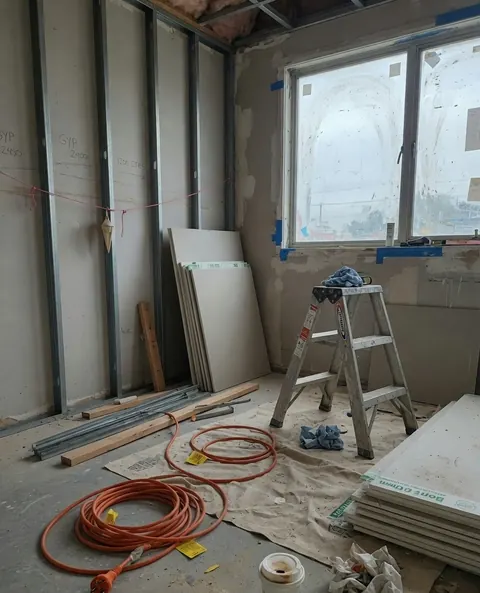
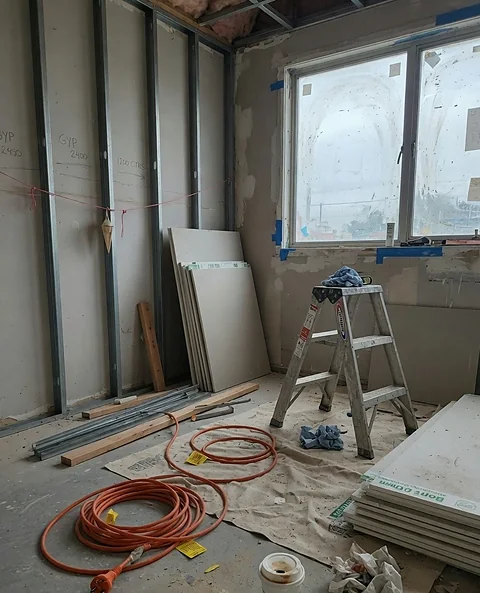
Stop the build inventing pixels, and sharpen what we actually have
The trade photos are 838px wide at source. The build was emitting 864 and 1200
variants from them, so a phone downloaded a third more bytes for detail the
resampler had guessed. That is the softness: no encoder setting fixes an
upscale.

- Ladder now caps at the source width and drops the fake variants.
- WebP quality 78 to 84, plus a light unsharp mask after each downscale, which
  is where the real perceived sharpness was being lost.
- srcset is read off disk instead of asserting a 480/864/1200 ladder that may
  not exist, so a photo can never again advertise a width we do not hold.

Guarded by test_no_photo_variant_is_wider_than_its_source and
test_every_srcset_width_matches_a_file_that_exists.

Changed region(s): [[0.75, 0.4553, 0.7812, 0.4857], [0.6875, 0.4553, 0.7188, 0.4857]]

diff --git a/index.html b/index.html
@@ -62,16 +62,16 @@
     <section class="hero-bleed">
       <div class="hero-media" id="stage">
           <picture>
-            <source type="image/webp" srcset="/assets/tech-hvac-480.webp?v=real1 480w, /assets/tech-hvac-864.webp?v=real1 864w, /assets/tech-hvac-1200.webp?v=real1 1200w" sizes="100vw">
-            <img class="is-on" data-trade="hvac" fetchpriority="high" src="/assets/tech-hvac.jpg?v=real1" width="838" height="1059" alt="HVAC technician on a rooftop unit">
+            <source type="image/webp" srcset="/assets/tech-hvac-480.webp?v=real2 480w, /assets/tech-hvac-838.webp?v=real2 838w" sizes="100vw">
+            <img class="is-on" data-trade="hvac" fetchpriority="high" src="/assets/tech-hvac.jpg?v=real2" width="838" height="1059" alt="HVAC technician on a rooftop unit">
           </picture>
           <picture>
-            <source type="image/webp" srcset="/assets/electrical-480.webp?v=real1 480w, /assets/electrical-864.webp?v=real1 864w, /assets/electrical-1200.webp?v=real1 1200w" sizes="100vw">
-            <img data-trade="electrical" aria-hidden="true" inert src="/assets/electrical.jpg?v=real1" width="838" height="1059" alt="Electrical switchboard" loading="lazy">
+            <source type="image/webp" srcset="/assets/electrical-480.webp?v=real2 480w, /assets/electrical-838.webp?v=real2 838w" sizes="100vw">
+            <img data-trade="electrical" aria-hidden="true" inert src="/assets/electrical.jpg?v=real2" width="838" height="1059" alt="Electrical switchboard" loading="lazy">
           </picture>
           <picture>
-            <source type="image/webp" srcset="/assets/construction-480.webp?v=real1 480w, /assets/construction-864.webp?v=real1 864w, /assets/construction-1200.webp?v=real1 1200w" sizes="100vw">
-            <img data-trade="construction" aria-hidden="true" inert src="/assets/construction.jpg?v=real1" width="838" height="1036" alt="Construction services fit-out" loading="lazy">
+            <source type="image/webp" srcset="/assets/construction-480.webp?v=real2 480w, /assets/construction-838.webp?v=real2 838w" sizes="100vw">
+            <img data-trade="construction" aria-hidden="true" inert src="/assets/construction.jpg?v=real2" width="838" height="1036" alt="Construction services fit-out" loading="lazy">
           </picture>
         <div class="hero-scrim"></div>
         <div class="cap" id="stageCap">HVAC</div>
@@ -161,8 +161,8 @@
       <div class="wrap split-visual">
         <div class="photo-frame">
           <picture>
-            <source type="image/webp" srcset="/assets/tech-electrical-480.webp?v=real1 480w, /assets/tech-electrical-864.webp?v=real1 864w, /assets/tech-electrical-1200.webp?v=real1 1200w" sizes="(max-width:940px) 100vw, 45vw">
-            <img src="/assets/tech-electrical.jpg?v=real1" width="838" height="1059" alt="Electrician testing a switchboard" loading="lazy">
+            <source type="image/webp" srcset="/assets/tech-electrical-480.webp?v=real2 480w, /assets/tech-electrical-838.webp?v=real2 838w" sizes="(max-width:940px) 100vw, 45vw">
+            <img src="/assets/tech-electrical.jpg?v=real2" width="838" height="1059" alt="Electrician testing a switchboard" loading="lazy">
           </picture>
         </div>
         <div class="split-copy">
@@ -306,8 +306,8 @@
       <div class="wrap meet">
         <div class="shot photo-frame">
           <picture>
-            <source type="image/webp" srcset="/assets/pink-home-480.webp?v=real1 480w, /assets/pink-home-864.webp?v=real1 864w, /assets/pink-home-1200.webp?v=real1 1200w" sizes="(max-width:940px) 100vw, 40vw">
-            <img src="/assets/pink-home.jpg?v=real1" width="1200" height="1800" alt="Huong Bui, principal of Service Profit" loading="lazy">
+            <source type="image/webp" srcset="/assets/pink-home-480.webp?v=real2 480w, /assets/pink-home-864.webp?v=real2 864w, /assets/pink-home-1200.webp?v=real2 1200w" sizes="(max-width:940px) 100vw, 40vw">
+            <img src="/assets/pink-home.jpg?v=real2" width="1200" height="1800" alt="Huong Bui, principal of Service Profit" loading="lazy">
           </picture>
         </div>
         <div>

diff --git a/electrician-accountant-brisbane.html b/electrician-accountant-brisbane.html
@@ -72,8 +72,8 @@
       </div>
       <div class="photo-frame" style="margin:28px 0">
           <picture>
-            <source type="image/webp" srcset="/assets/tech-electrical-480.webp?v=real1 480w, /assets/tech-electrical-864.webp?v=real1 864w, /assets/tech-electrical-1200.webp?v=real1 1200w" sizes="(max-width:940px) 100vw, 55vw">
-            <img src="/assets/tech-electrical.jpg?v=real1" width="838" height="1059" alt="Electrician testing a switchboard" loading="lazy">
+            <source type="image/webp" srcset="/assets/tech-electrical-480.webp?v=real2 480w, /assets/tech-electrical-838.webp?v=real2 838w" sizes="(max-width:940px) 100vw, 55vw">
+            <img src="/assets/tech-electrical.jpg?v=real2" width="838" height="1059" alt="Electrician testing a switchboard" loading="lazy">
           </picture>
       </div>
       <div class="prose">

diff --git a/electrician-accountant-brisbane/index.html b/electrician-accountant-brisbane/index.html
@@ -72,8 +72,8 @@
       </div>
       <div class="photo-frame" style="margin:28px 0">
           <picture>
-            <source type="image/webp" srcset="/assets/tech-electrical-480.webp?v=real1 480w, /assets/tech-electrical-864.webp?v=real1 864w, /assets/tech-electrical-1200.webp?v=real1 1200w" sizes="(max-width:940px) 100vw, 55vw">
-            <img src="/assets/tech-electrical.jpg?v=real1" width="838" height="1059" alt="Electrician testing a switchboard" loading="lazy">
+            <source type="image/webp" srcset="/assets/tech-electrical-480.webp?v=real2 480w, /assets/tech-electrical-838.webp?v=real2 838w" sizes="(max-width:940px) 100vw, 55vw">
+            <img src="/assets/tech-electrical.jpg?v=real2" width="838" height="1059" alt="Electrician testing a switchboard" loading="lazy">
           </picture>
       </div>
       <div class="prose">

diff --git a/construction-services-accountant-brisbane.html b/construction-services-accountant-brisbane.html
@@ -72,8 +72,8 @@
       </div>
       <div class="photo-frame" style="margin:28px 0">
           <picture>
-            <source type="image/webp" srcset="/assets/construction-480.webp?v=real1 480w, /assets/construction-864.webp?v=real1 864w, /assets/construction-1200.webp?v=real1 1200w" sizes="(max-width:940px) 100vw, 55vw">
-            <img src="/assets/construction.jpg?v=real1" width="838" height="1036" alt="Construction services fit-out" loading="lazy">
+            <source type="image/webp" srcset="/assets/construction-480.webp?v=real2 480w, /assets/construction-838.webp?v=real2 838w" sizes="(max-width:940px) 100vw, 55vw">
+            <img src="/assets/construction.jpg?v=real2" width="838" height="1036" alt="Construction services fit-out" loading="lazy">
           </picture>
       </div>
       <div class="prose">

diff --git a/construction-services-accountant-brisbane/index.html b/construction-services-accountant-brisbane/index.html
@@ -72,8 +72,8 @@
       </div>
       <div class="photo-frame" style="margin:28px 0">
           <picture>
-            <source type="image/webp" srcset="/assets/construction-480.webp?v=real1 480w, /assets/construction-864.webp?v=real1 864w, /assets/construction-1200.webp?v=real1 1200w" sizes="(max-width:940px) 100vw, 55vw">
-            <img src="/assets/construction.jpg?v=real1" width="838" height="1036" alt="Construction services fit-out" loading="lazy">
+            <source type="image/webp" srcset="/assets/construction-480.webp?v=real2 480w, /assets/construction-838.webp?v=real2 838w" sizes="(max-width:940px) 100vw, 55vw">
+            <img src="/assets/construction.jpg?v=real2" width="838" height="1036" alt="Construction services fit-out" loading="lazy">
           </picture>
       </div>
       <div class="prose">

diff --git a/why.html b/why.html
@@ -60,8 +60,8 @@
       <div class="wrap meet">
         <div class="shot">
           <picture>
-            <source type="image/webp" srcset="/assets/pink-meet-480.webp?v=real1 480w, /assets/pink-meet-864.webp?v=real1 864w, /assets/pink-meet-1200.webp?v=real1 1200w" sizes="(max-width:940px) 100vw, 40vw">
-            <img src="/assets/pink-meet.jpg?v=real1" width="1080" height="1350" alt="Huong Bui in a client meeting">
+            <source type="image/webp" srcset="/assets/pink-meet-480.webp?v=real2 480w, /assets/pink-meet-864.webp?v=real2 864w, /assets/pink-meet-1080.webp?v=real2 1080w" sizes="(max-width:940px) 100vw, 40vw">
+            <img src="/assets/pink-meet.jpg?v=real2" width="1080" height="1350" alt="Huong Bui in a client meeting">
           </picture>
         </div>
         <div class="meet-copy">

diff --git a/air-conditioning-accountant-brisbane.html b/air-conditioning-accountant-brisbane.html
@@ -72,8 +72,8 @@
       </div>
       <div class="photo-frame" style="margin:28px 0">
           <picture>
-            <source type="image/webp" srcset="/assets/tech-hvac-480.webp?v=real1 480w, /assets/tech-hvac-864.webp?v=real1 864w, /assets/tech-hvac-1200.webp?v=real1 1200w" sizes="(max-width:940px) 100vw, 55vw">
-            <img src="/assets/tech-hvac.jpg?v=real1" width="838" height="1059" alt="HVAC technician on a rooftop unit" loading="lazy">
+            <source type="image/webp" srcset="/assets/tech-hvac-480.webp?v=real2 480w, /assets/tech-hvac-838.webp?v=real2 838w" sizes="(max-width:940px) 100vw, 55vw">
+            <img src="/assets/tech-hvac.jpg?v=real2" width="838" height="1059" alt="HVAC technician on a rooftop unit" loading="lazy">
           </picture>
       </div>
       <div class="prose">

diff --git a/air-conditioning-accountant-brisbane/index.html b/air-conditioning-accountant-brisbane/index.html
@@ -72,8 +72,8 @@
       </div>
       <div class="photo-frame" style="margin:28px 0">
           <picture>
-            <source type="image/webp" srcset="/assets/tech-hvac-480.webp?v=real1 480w, /assets/tech-hvac-864.webp?v=real1 864w, /assets/tech-hvac-1200.webp?v=real1 1200w" sizes="(max-width:940px) 100vw, 55vw">
-            <img src="/assets/tech-hvac.jpg?v=real1" width="838" height="1059" alt="HVAC technician on a rooftop unit" loading="lazy">
+            <source type="image/webp" srcset="/assets/tech-hvac-480.webp?v=real2 480w, /assets/tech-hvac-838.webp?v=real2 838w" sizes="(max-width:940px) 100vw, 55vw">
+            <img src="/assets/tech-hvac.jpg?v=real2" width="838" height="1059" alt="HVAC technician on a rooftop unit" loading="lazy">
           </picture>
       </div>
       <div class="prose">

diff --git a/tools/build_assets.py b/tools/build_assets.py
@@ -15,17 +15,52 @@ JPEG_STEMS = (
 
 
 def to_webp(src: Path, stem: str, widths=(480, 864, 1200)) -> None:
+    """Write the WebP ladder for one photo.
+
+    Two rules, both learned the hard way:
+
+    1. Never resize above the source. The trade photos are 838px wide. Emitting
+       a 1200px variant from them does not add detail, it invents it, and the
+       result looks soft on exactly the retina phones the audience uses.
+    2. Downscaling softens edges. A light unsharp mask after the resize puts the
+       perceived sharpness back without the halos you get from a heavy one.
+    """
+    from PIL import ImageFilter
+
     im = Image.open(src).convert("RGB")
-    for w in widths:
-        ratio = w / im.width
-        h = max(1, int(im.height * ratio))
-        resized = im.resize((w, h), Image.Resampling.LANCZOS)
+    targets = sorted({w for w in widths if w < im.width} | {im.width})
+    for w in targets:
+        if w == im.width:
+            resized = im
+        else:
+            h = max(1, round(im.height * w / im.width))
+            resized = im.resize((w, h), Image.Resampling.LANCZOS)
+            resized = resized.filter(
+                ImageFilter.UnsharpMask(radius=0.8, percent=70, threshold=3)
+            )
         out = ASSETS / f"{stem}-{w}.webp"
-        resized.save(out, "WEBP", quality=78, method=6)
-        print(out.name, out.stat().st_size)
-    full = ASSETS / f"{stem}.webp"
-    im.save(full, "WEBP", quality=78, method=6)
-    print(full.name, full.stat().st_size)
+        resized.save(out, "WEBP", quality=84, method=6)
+        print(f"{out.name:<34} {resized.width}x{resized.height}  {out.stat().st_size/1024:6.1f}KB")
+
+
+def rebuild_photos() -> None:
+    """Regenerate every photo ladder from the JPEG that ships beside it."""
+    stale = []
+    for stem in JPEG_STEMS:
+        src = ASSETS / f"{stem}.jpg"
+        if not src.exists():
+            print("missing source:", src.name)
+            continue
+        with Image.open(src) as probe:
+            source_width = probe.width
+        for old in ASSETS.glob(f"{stem}-*.webp"):
+            width = int(old.stem.rsplit("-", 1)[1])
+            if width > source_width:
+                stale.append(old)
+        to_webp(src, stem)
+    for f in stale:
+        f.unlink()
+        print("removed upscaled variant:", f.name)
 
 
 INK = "#0E0E12"

diff --git a/tests/test_site.py b/tests/test_site.py
@@ -830,3 +830,29 @@ def test_audience_pages_carry_breadcrumbs():
         assert [i["position"] for i in items] == [1, 2]
         assert items[1]["item"].endswith(f"/{slug}/")
         assert items[1]["name"]
+
+
+def test_no_photo_variant_is_wider_than_its_source():
+    # The trade photos are 838px wide. The build used to emit 864 and 1200
+    # variants from them, so a phone downloaded a third more bytes for pixels
+    # the resampler had guessed. It looked soft on exactly the retina screens
+    # this audience reads the site on. Never ship a variant above its source.
+    from PIL import Image
+    assets = ROOT / "assets"
+    for src in assets.glob("*.jpg"):
+        with Image.open(src) as im:
+            source_width = im.width
+        for variant in assets.glob(f"{src.stem}-*.webp"):
+            width = int(variant.stem.rsplit("-", 1)[1])
+            assert width <= source_width, (
+                f"{variant.name} is {width}px from a {source_width}px source"
+            )
+
+
+def test_every_srcset_width_matches_a_file_that_exists():
+    import re
+    for p in PAGES:
+        for entry in re.findall(r"/assets/([A-Za-z0-9._-]+\.webp)\?[^ ]* (\d+)w", p.read_text(encoding="utf-8")):
+            name, width = entry
+            assert (ROOT / "assets" / name).exists(), f"{p.name}: {name} missing"
+            assert name.endswith(f"-{width}.webp"), f"{p.name}: {name} declared as {width}w"

diff --git a/tools/shared.py b/tools/shared.py
@@ -7,6 +7,32 @@ GBP = "https://www.google.com/maps?cid=17544456102082616748"
 FB = "https://www.facebook.com/profile.php?id=61594432044788"
 LI = "https://www.linkedin.com/company/143802027/"
 ASSET = "rt43"
+IMG_VERSION = "real2"
+
+
+def image_widths(stem):
+    """Widths we actually hold for this photo, smallest first.
+
+    The source photos top out at 838px wide. The build used to emit 864 and
+    1200 variants from them, so the browser downloaded a third more bytes for
+    pixels that had been invented by the resampler. Read what is on disk
+    instead of asserting a ladder that may not exist.
+    """
+    import pathlib as _p
+    import re as _re
+    assets = _p.Path(__file__).resolve().parents[1] / "assets"
+    found = []
+    for f in assets.glob(f"{stem}-*.webp"):
+        m = _re.fullmatch(rf"{_re.escape(stem)}-(\d+)\.webp", f.name)
+        if m:
+            found.append(int(m.group(1)))
+    return sorted(found)
+
+
+def webp_srcset(stem):
+    return ", ".join(
+        f"/assets/{stem}-{w}.webp?v={IMG_VERSION} {w}w" for w in image_widths(stem)
+    )
 GA4 = "G-8T6SXPNSCW"
 GTAG = "GT-WVXQ29L2"
 # Firm Meta pixel is not in any live source. Leave blank until Events Manager issues an ID.

diff --git a/tools/build_pages.py b/tools/build_pages.py
@@ -2,6 +2,7 @@ import json
 from pathlib import Path
 from shared import (
     GBP,
+    IMG_VERSION,
     MSBOOK,
     ORIGIN,
     cash_chart,
@@ -19,6 +20,7 @@ from shared import (
     person_node,
     service_node,
     sticky,
+    webp_srcset,
     website_node,
 )
 import seo_pages
@@ -255,8 +257,8 @@ def picture(stem, alt, extra="", lazy=False, sizes="(max-width:940px) 100vw, 55v
     w, h = STEM_SIZE[stem]
     return (
         f'          <picture>\n'
-        f'            <source type="image/webp" srcset="/assets/{stem}-480.webp?v=real1 480w, /assets/{stem}-864.webp?v=real1 864w, /assets/{stem}-1200.webp?v=real1 1200w" sizes="{sizes}">\n'
-        f'            <img{extra} src="/assets/{stem}.jpg?v=real1" width="{w}" height="{h}" alt="{alt}"{loading}>\n'
+        f'            <source type="image/webp" srcset="{webp_srcset(stem)}" sizes="{sizes}">\n'
+        f'            <img{extra} src="/assets/{stem}.jpg?v={IMG_VERSION}" width="{w}" height="{h}" alt="{alt}"{loading}>\n'
         f'          </picture>'
     )
 
